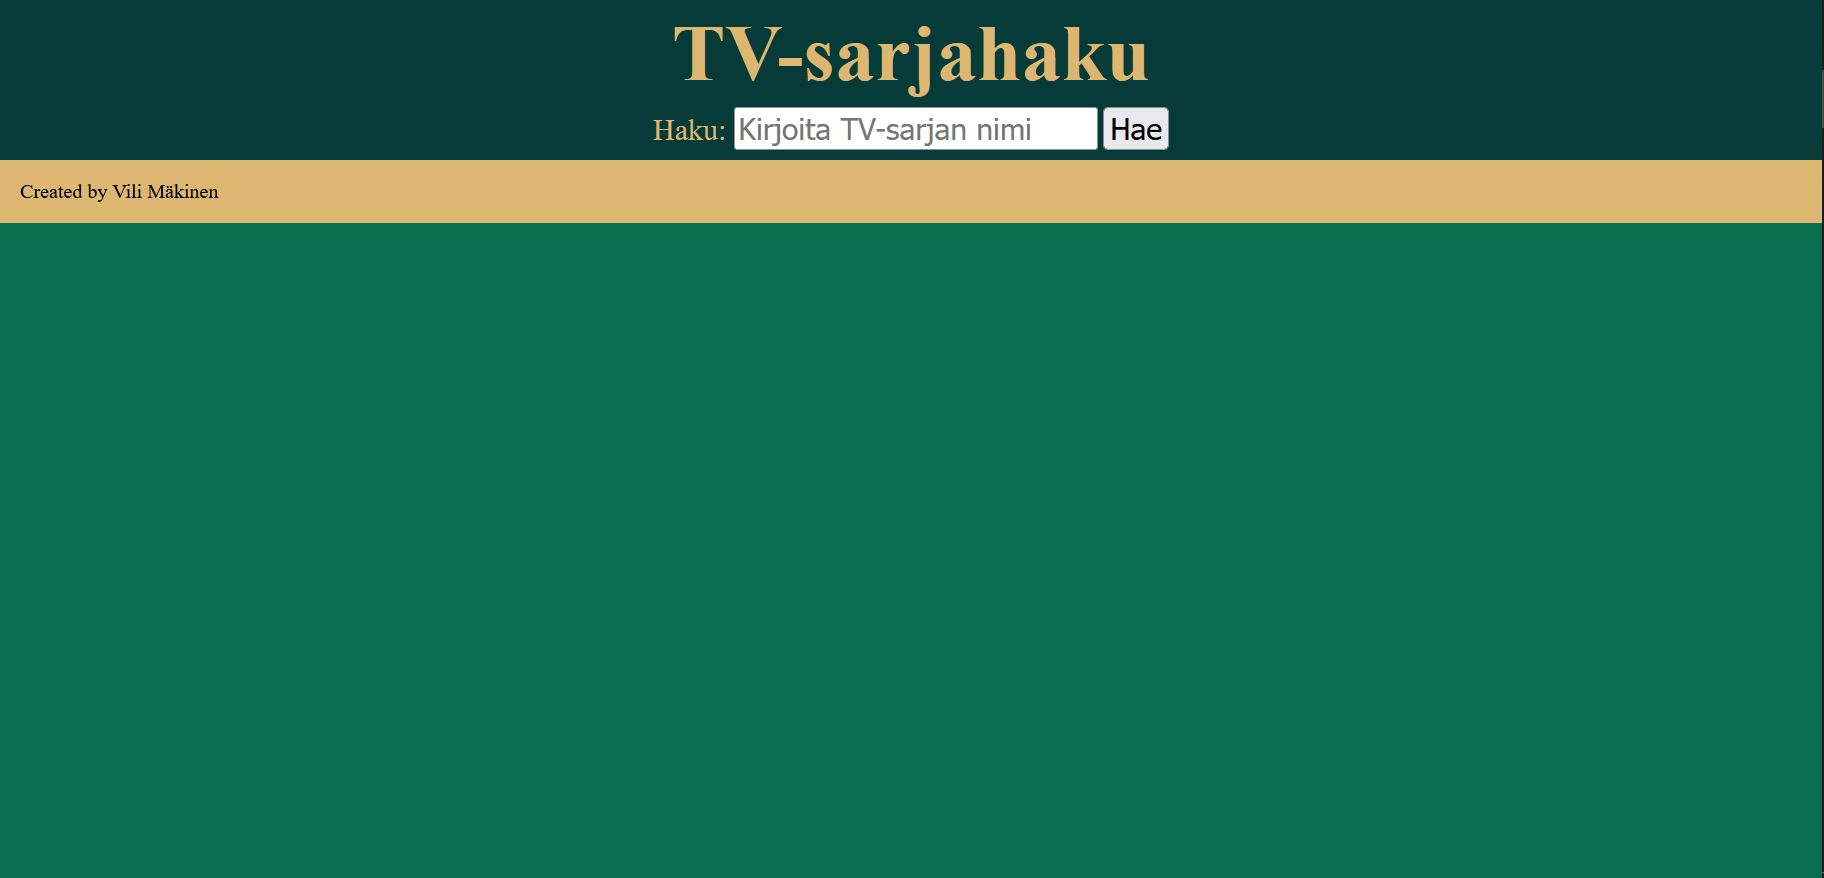
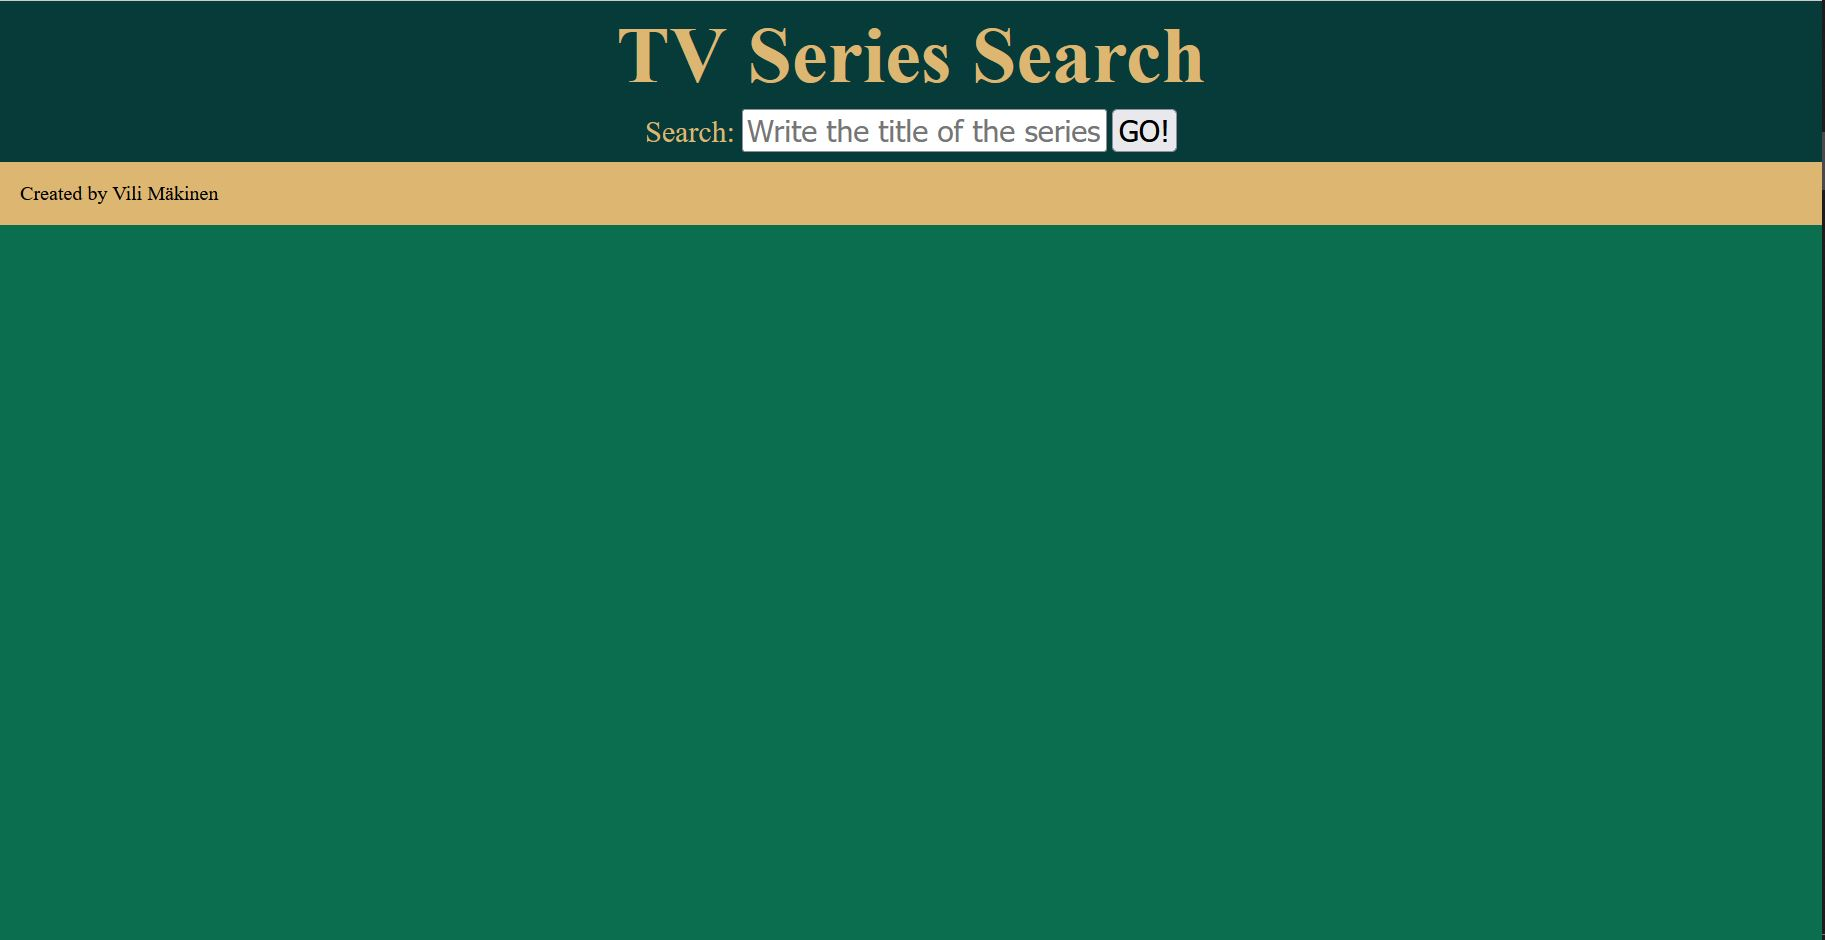
updated the README

Changed region(s): [[0.0, 0.0308, 1.0, 0.2768]]

diff --git a/README.md b/README.md
@@ -10,3 +10,9 @@ done in September - October of 2020
 ![Image of page before query](/screenshots/cap-1.JPG)
 ### After query
 ![Image of page after query](/screenshots/cap-2.JPG)
+<br>
+changes:
+<br>
+<br>
+changed the text in finnish to english. <br>
+changed the images in README to ones with english text only. <br>
